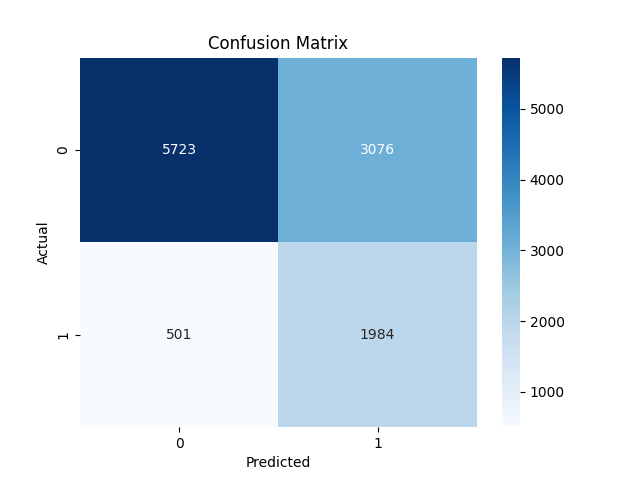
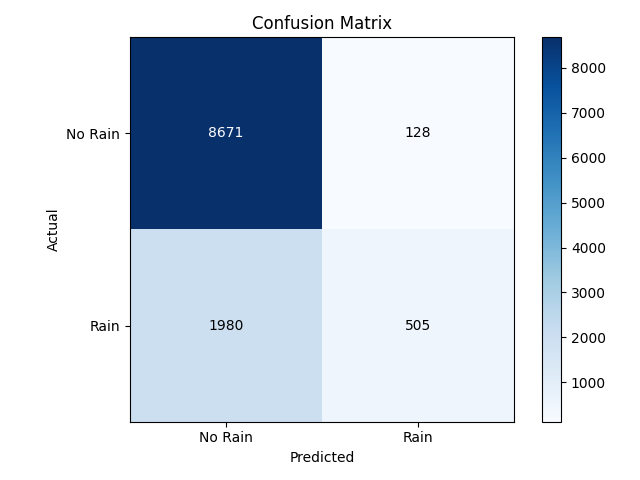
modifications in application sgdClassifier

diff --git a/app/templates/templateMachineSupervised/classificationModel.html b/app/templates/templateMachineSupervised/classificationModel.html
@@ -13,10 +13,6 @@
         </div>
     </div>
 </div>
-
-
-
-<!-- 1 PROBLEM DESCRIPTION -->
 <div class="card border-0 shadow-sm mb-4">
     <div class="card-header bg-primary text-white">
         <i class="bi bi-info-circle-fill"></i>
@@ -75,9 +71,6 @@
     </div>
 </div>
 
-
-
-<!-- 2 DATASET -->
 {% if stats %}
 <div class="card border-0 shadow-sm mb-4">
     <div class="card-header bg-primary text-white">
@@ -120,9 +113,6 @@
 </div>
 {% endif %}
 
-
-
-<!-- 3 VARIABLES -->
 <div class="card border-0 shadow-sm mb-4">
     <div class="card-header bg-primary text-white">
         <i class="bi bi-list-columns"></i>
@@ -184,9 +174,6 @@
     </div>
 </div>
 
-
-
-<!-- 4 DATA PREPARATION -->
 <div class="card border-0 shadow-sm mb-4">
     <div class="card-header bg-primary text-white">
         <i class="bi bi-gear-fill"></i>
@@ -208,9 +195,6 @@
     </div>
 </div>
 
-
-
-<!-- 5 GRAPHS -->
 {% if metrics %}
 <div class="card border-0 shadow-sm mb-4">
 
@@ -241,9 +225,6 @@
 </div>
 {% endif %}
 
-
-
-<!-- 6 METRICS -->
 {% if metrics %}
 <div class="card border-0 shadow-sm mb-4">
 
@@ -307,9 +288,6 @@
 </div>
 {% endif %}
 
-
-
-<!-- 7 PREDICTION -->
 <div class="row g-4 mb-4">
 
     <div class="col-md-5">
@@ -372,7 +350,7 @@
 
                 <div class="text-center">
                     <span class="badge bg-info fs-3 px-4 py-3">
-                        🌧 Rain Expected
+                         Rain Expected
                     </span>
                 </div>
 
@@ -380,7 +358,7 @@
 
                 <div class="text-center">
                     <span class="badge bg-warning text-dark fs-3 px-4 py-3">
-                        ☀ No Rain
+                         No Rain
                     </span>
                 </div>
 

diff --git a/app/templates/templateHome/index.html b/app/templates/templateHome/index.html
@@ -37,8 +37,8 @@
     <div class="col-md-4">
         <div class="card border-0 shadow-sm h-100 text-center p-4">
             <i class="bi bi-graph-up-arrow text-success mb-2" style="font-size: 2.5rem;"></i>
-            <h2 class="fw-bold text-success">1</h2>
-            <p class="text-muted mb-0">Linear Regression application with live prediction</p>
+            <h2 class="fw-bold text-success">3</h2>
+            <p class="text-muted mb-0">application with live prediction</p>
         </div>
     </div>
     <div class="col-md-4">

diff --git a/app/models/modelMachineSupervised/sgdClassifierModel.py b/app/models/modelMachineSupervised/sgdClassifierModel.py
@@ -1,7 +1,6 @@
 import pandas as pd
 import numpy as np
 import matplotlib.pyplot as plt
-import seaborn as sns
 
 from sklearn.model_selection import train_test_split
 from sklearn.linear_model import SGDClassifier
@@ -15,19 +14,11 @@ from sklearn.metrics import (
     auc
 )
 
-# =========================
-# LOAD DATASET
-# =========================
-
 df = pd.read_csv("app/data/weatherAUS.csv")
 df = df.dropna()
 
 X = df[["MinTemp", "MaxTemp", "Rainfall", "Humidity3pm"]]
 y = df["RainTomorrow"].map({"No": 0, "Yes": 1})
-
-# =========================
-# TRAIN MODEL
-# =========================
 
 X_train, X_test, y_train, y_test = train_test_split(
     X, y, test_size=0.2, random_state=42
@@ -36,16 +27,8 @@ X_train, X_test, y_train, y_test = train_test_split(
 model = SGDClassifier(loss="log_loss")
 model.fit(X_train, y_train)
 
-# =========================
-# PREDICTIONS
-# =========================
-
 y_pred = model.predict(X_test)
 y_scores = model.decision_function(X_test)
-
-# =========================
-# METRICS
-# =========================
 
 fpr, tpr, _ = roc_curve(y_test, y_scores)
 roc_auc = auc(fpr, tpr)
@@ -58,10 +41,7 @@ metrics = {
     "auc": float(np.round(roc_auc, 3))
 }
 
-# =========================
-# ROC CURVE
-# =========================
-
+# ROC Curve
 plt.figure()
 plt.plot(fpr, tpr, label=f"AUC = {roc_auc:.3f}")
 plt.plot([0, 1], [0, 1], linestyle="--")
@@ -69,43 +49,49 @@ plt.xlabel("False Positive Rate")
 plt.ylabel("True Positive Rate")
 plt.title("ROC Curve - SGD Classifier")
 plt.legend()
-
 plt.savefig("app/static/generated/sgd_roc.png")
 plt.close()
 
-# =========================
-# CONFUSION MATRIX
-# =========================
-
+# Confusion Matrix sin seaborn
 cm = confusion_matrix(y_test, y_pred)
 
-plt.figure()
-sns.heatmap(cm, annot=True, fmt="d", cmap="Blues")
-plt.xlabel("Predicted")
-plt.ylabel("Actual")
-plt.title("Confusion Matrix")
+fig, ax = plt.subplots()
+im = ax.imshow(cm, interpolation="nearest", cmap="Blues")
+plt.colorbar(im, ax=ax)
 
+classes = ["No Rain", "Rain"]
+tick_marks = np.arange(len(classes))
+ax.set_xticks(tick_marks)
+ax.set_xticklabels(classes)
+ax.set_yticks(tick_marks)
+ax.set_yticklabels(classes)
+
+# Anotar cada celda con su valor
+thresh = cm.max() / 2.0
+for i in range(cm.shape[0]):
+    for j in range(cm.shape[1]):
+        ax.text(j, i, format(cm[i, j], "d"),
+                ha="center", va="center",
+                color="white" if cm[i, j] > thresh else "black")
+
+ax.set_xlabel("Predicted")
+ax.set_ylabel("Actual")
+ax.set_title("Confusion Matrix")
+fig.tight_layout()
 plt.savefig("app/static/generated/sgd_confusion.png")
 plt.close()
 
-# =========================
-# FUNCTIONS
-# =========================
 
 def predict(features):
-
     prediction = model.predict(features)
-
     return prediction[0]
 
 
 def get_metrics():
-
     return metrics
 
 
 def interpret_metrics(metrics):
-
     interpretation = {
         "accuracy": "Overall correctness of the model",
         "precision": "Correct rain predictions",
@@ -113,16 +99,13 @@ def interpret_metrics(metrics):
         "f1": "Balance precision-recall",
         "auc": "ROC curve performance"
     }
-
     return interpretation
 
 
 def get_dataset_stats():
-
     total_samples = len(X)
     train_samples = len(X_train)
     test_samples = len(X_test)
-
     return {
         "total_samples": total_samples,
         "train_samples": train_samples,

diff --git a/app/controllers/controllerMachineSupervised/sgdClassifierController.py b/app/controllers/controllerMachineSupervised/sgdClassifierController.py
@@ -30,7 +30,7 @@ def sgdClassifier():
 
         prediction = predict(X)
 
-        result = "🌧 Rain Expected" if prediction == 1 else "☀ No Rain"
+        result = " Rain Expected" if prediction == 1 else " No Rain"
 
     metrics = get_metrics()
     interpretation = interpret_metrics(metrics)
@@ -45,8 +45,15 @@ def sgdClassifier():
     )
 
 
-@sgdClassifier_bp.route("/sgd-classifier-definition")
-def sgdClassifierDefinition():
+@sgdClassifier_bp.route("/classification/definition")
+def classification_definition():
     return render_template(
-        "templateMachineSupervised/sgdClassifierDefinition.html"
+        "templateMachineSupervised/classificationModelDefinition.html"
+    )
+
+
+@sgdClassifier_bp.route("/classification", methods=["GET", "POST"])
+def classification_app():
+    return render_template(
+        "templateMachineSupervised/classificationModel.html"
     )

diff --git a/app/controllers/controllerMachineSupervised/regressionController.py b/app/controllers/controllerMachineSupervised/regressionController.py
@@ -46,15 +46,3 @@ def regression_definition():
     )
 
 
-@regression_bp.route("/classification/definition")
-def classification_definition():
-    return render_template(
-        "templateMachineSupervised/classificationModelDefinition.html"
-    )
-
-
-@regression_bp.route("/classification", methods=["GET", "POST"])
-def classification_app():
-    return render_template(
-        "templateMachineSupervised/classificationModel.html"
-    )
